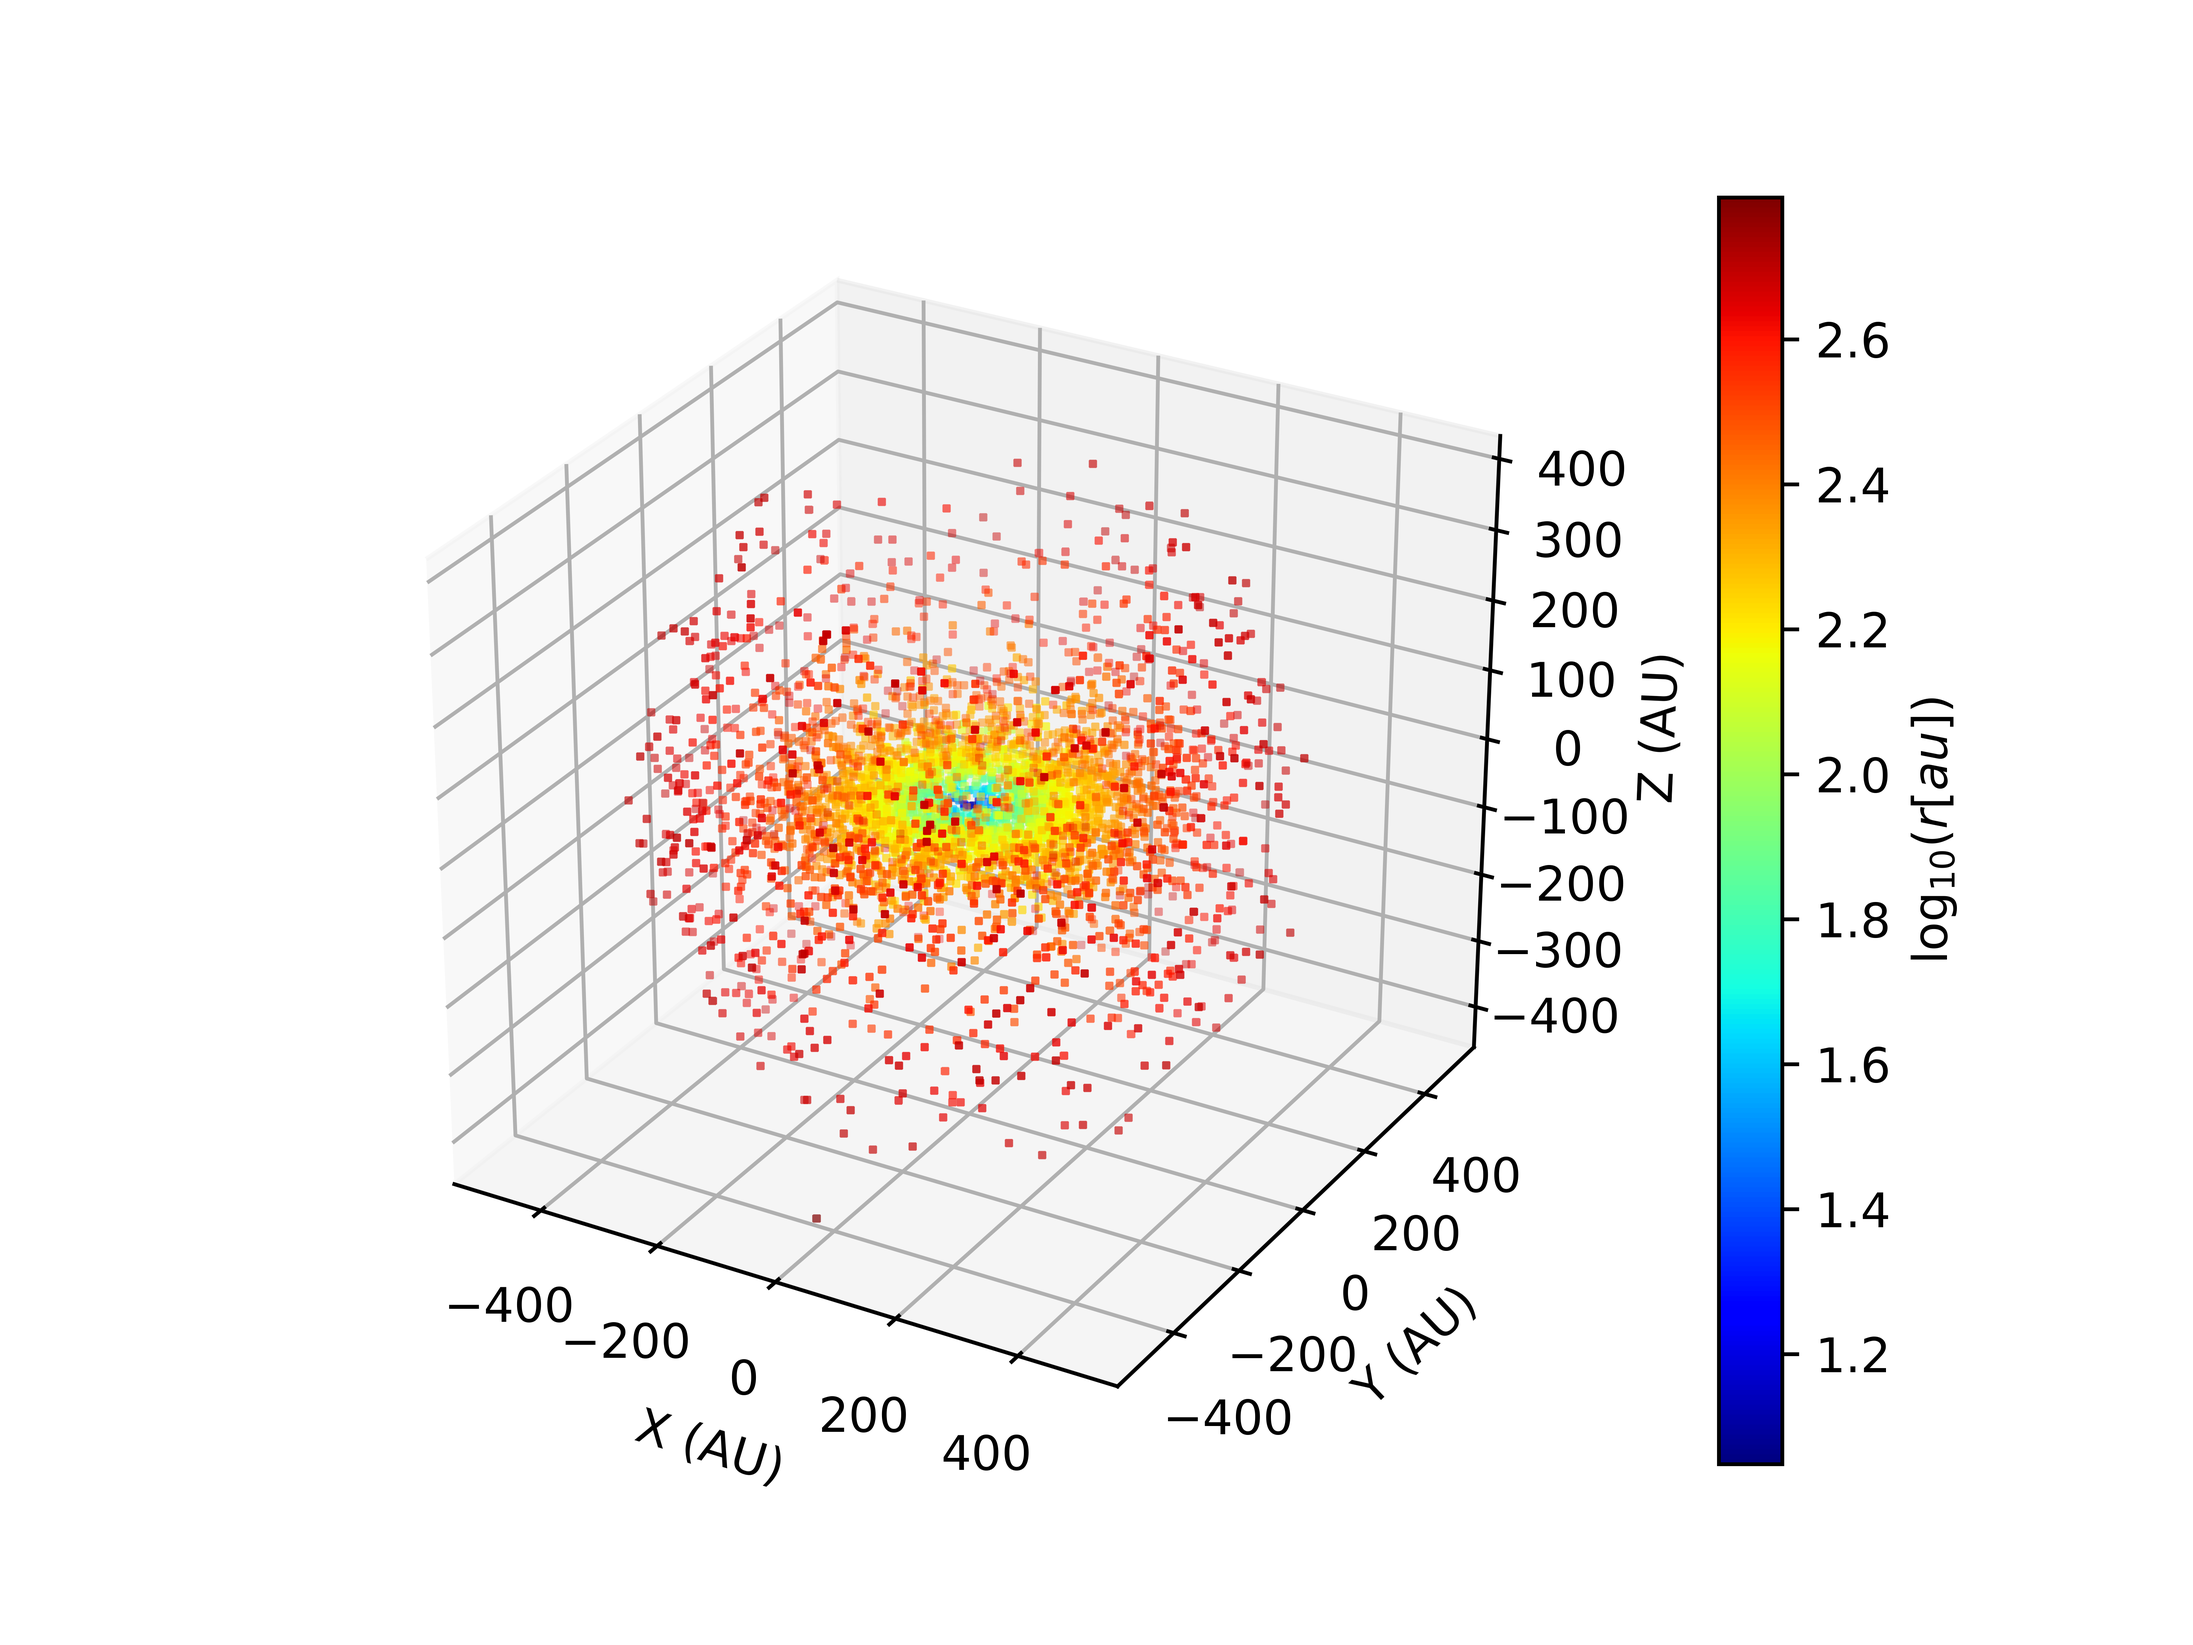
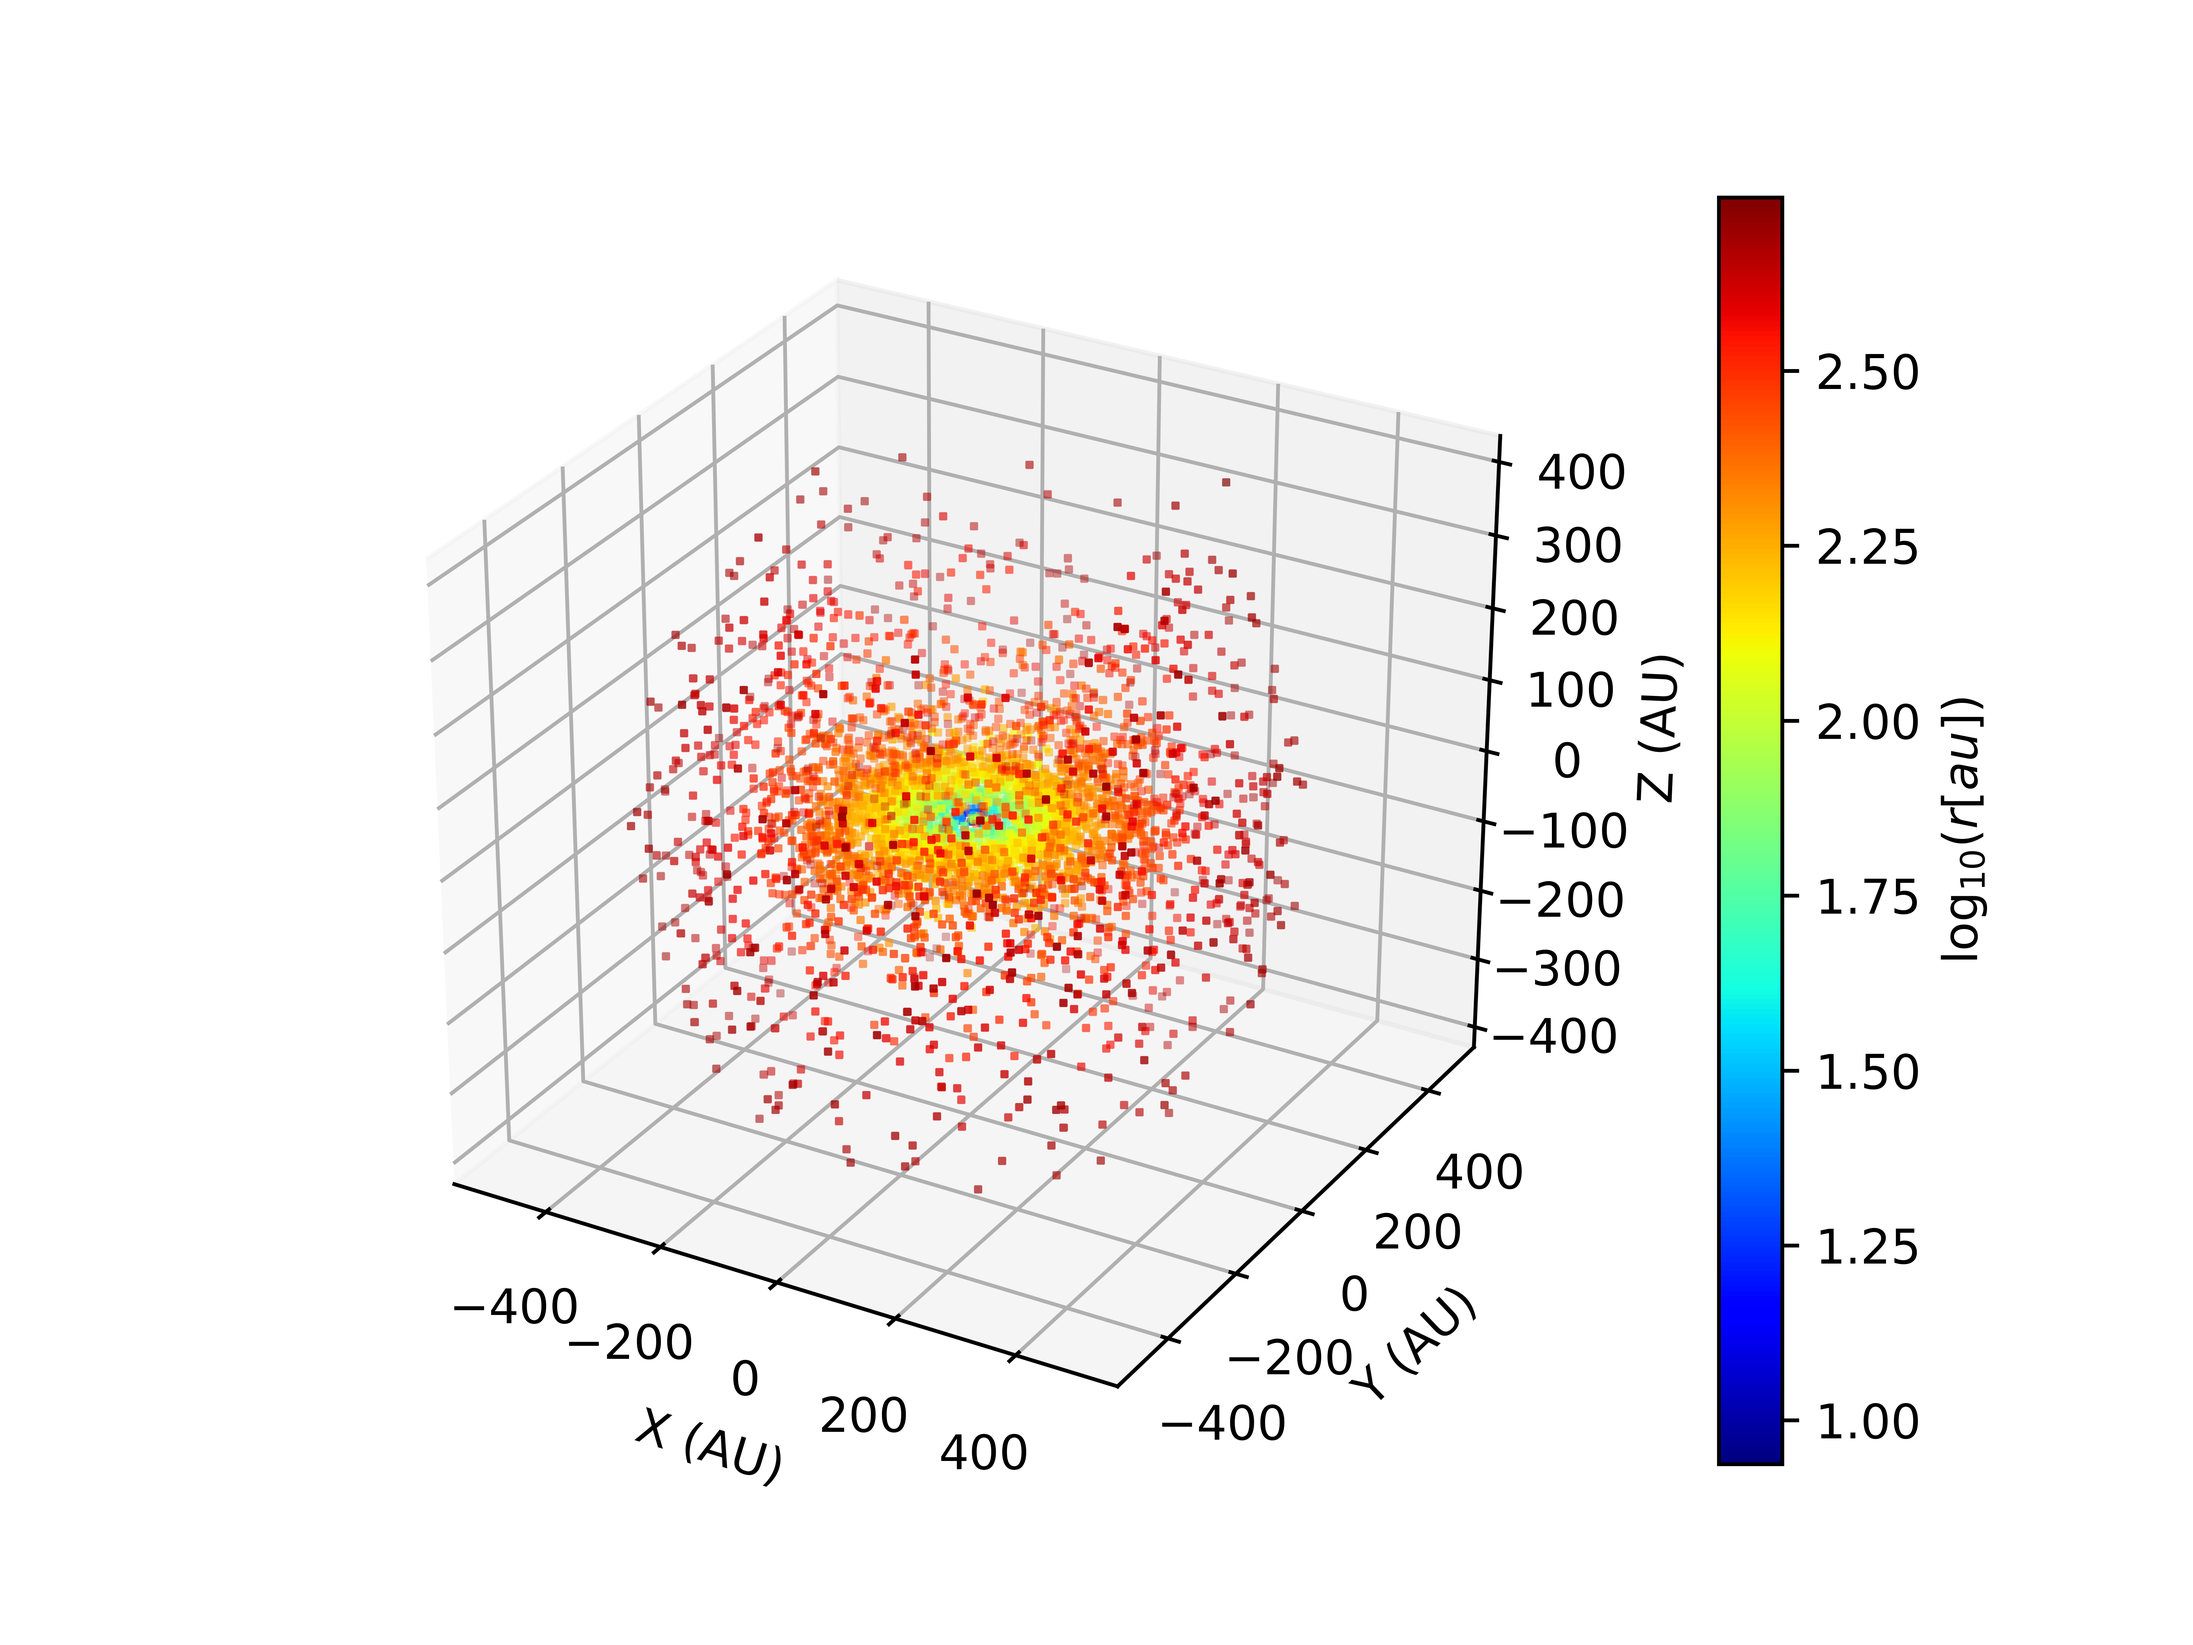
update

diff --git a/sf3dmodels/Model.py b/sf3dmodels/Model.py
@@ -403,7 +403,7 @@ def density_Hamburgers(RStar, shFactor, Ro, rhoE0, Arho, GRID,
 #DENSITY (PowerLaw) FUNCTION
 #---------------------------
 
-def density_Powerlaw(r_max, rho_mean, q, GRID):
+def density_Powerlaw(r_max, rho_mean, q, GRID, rho_min = 1.0e3):
 
 #r_max: Maximum radius of the envelope 
 #rho_mean: Mean density of the Envelope 
@@ -423,7 +423,10 @@ def density_Powerlaw(r_max, rho_mean, q, GRID):
 
     #As rho_mean = 1/NTotal * np.sum(rho0 * r**q), the normalization rho0 is calculated as follows:  
     rho0 = NPoints * rho_mean / np.sum(rqList)
-    rhoENV = np.where( rho0 * rqList < 1.0, 1.0e9, rho0 * rqList )
+    rhoENV = rho0 * rqList
+    rhoENV = np.where(rhoENV < rho_min, rho_min, rhoENV)
+
+    #rhoENV = np.where( rho0 * rqList < 1.0, rho_min, rho0 * rqList )
 
     #------------------------
     #------------------------
@@ -651,6 +654,7 @@ def temperature(TStar, Rd, T10Env, RStar, MStar, MRate, BT, density, GRID,
         tempENV = np.where( (rList <= renv) & (thetaList >= ang_cavity), 
                             T10Env * 10**p * (rList / AU)**-p, 
                             Tmin_env)
+        tempENV = np.where(tempENV < Tmin_env, Tmin_env, tempENV)
         #tempENV = TStar * (RStar / (2.*rList))**(2. / (4+p))
     else: tempENV = 1.
     

diff --git a/examples/single_main/rt-lime19.c b/examples/single_main/rt-lime19.c
@@ -8,8 +8,6 @@
  */
 
 #include "lime.h"
-#include "readdata.h"
-#include "mindistance.h"
 
 /******************************************************************************/
 
@@ -160,5 +158,3 @@ velocity(double dummy0, double dummy1, double id, double *vel){
 }
 
 /******************************************************************************/
-
-
